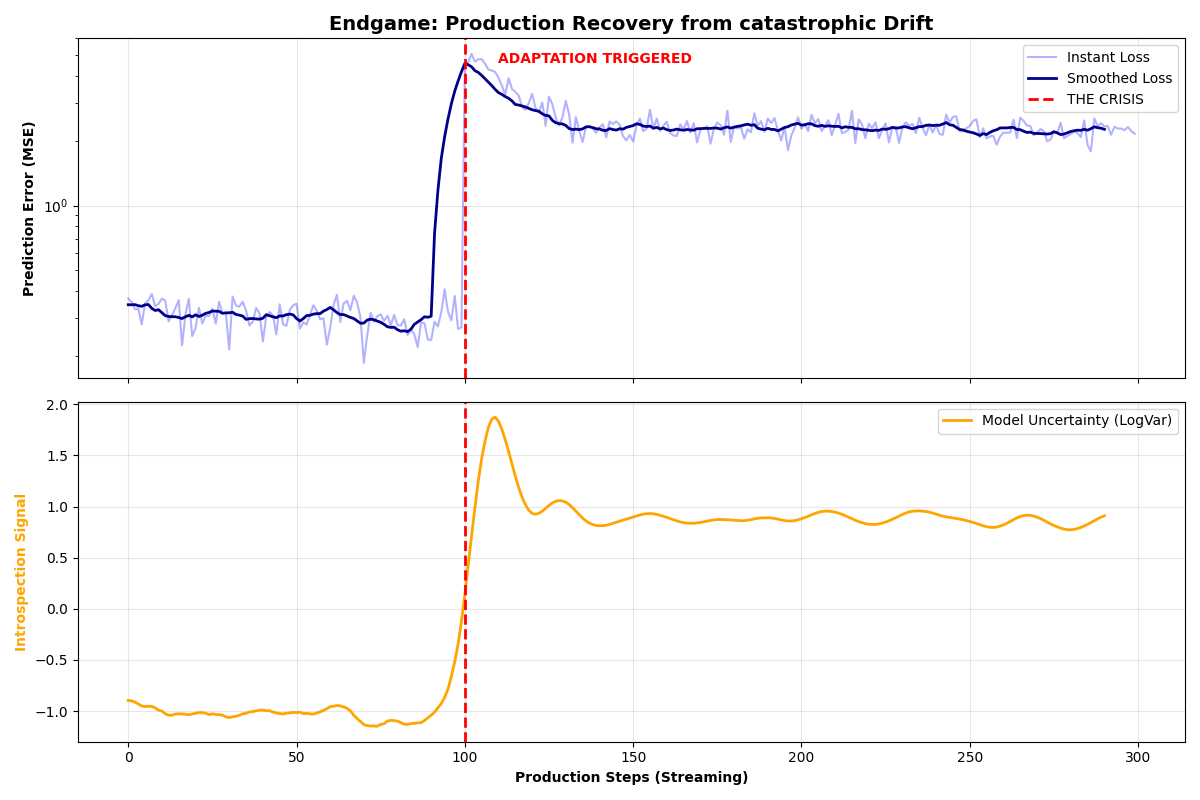
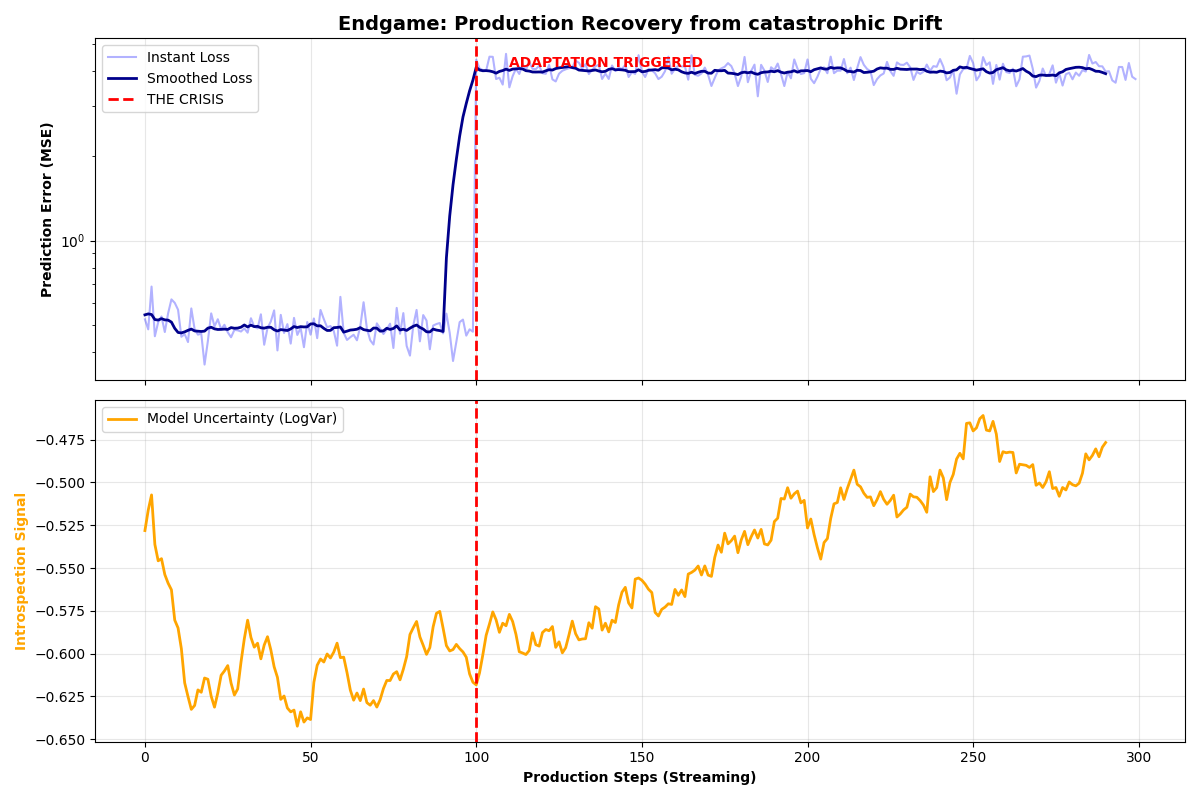
testing production learning

diff --git a/experiments/run_production.py b/experiments/run_production.py
@@ -1,0 +1,208 @@
+"""
+Production Simulation: The "Extreme Life-Long Learning" Test
+============================================================
+Goal: Prove that MirrorMind improves OVER TIME in production, 
+even after a very short (1 epoch) initial training phase.
+
+Scenario:
+1. "Lazy Training": Train for just 1 Epoch (Underfitting).
+2. "The Gauntlet": Deploy to Production with shifting domains (NLP->CV->Audio).
+3. "Disturbance": Add random noise/corruption to inputs.
+4. "Proof": Measure Instant Loss vs. Cumulative Error.
+"""
+
+import torch
+import torch.nn as nn
+import numpy as np
+import matplotlib.pyplot as plt
+import random
+from dataclasses import dataclass
+
+from airbornehrs import AdaptiveFramework, AdaptiveFrameworkConfig
+from airbornehrs.meta_controller import MetaControllerConfig
+from airbornehrs.production import ProductionAdapter, InferenceMode
+
+# ==============================================================================
+# 1. UNIVERSAL SENSORS (The Interface)
+# ==============================================================================
+class UniversalProjector(nn.Module):
+    """Maps Text/Image/Audio to the Brain's Embedding Space"""
+    def __init__(self, model_dim: int):
+        super().__init__()
+        self.text_embed = nn.Embedding(1000, model_dim) # NLP
+        self.vision_proj = nn.Conv2d(1, model_dim, 4, 4) # CV (28x28 -> 7x7)
+        self.audio_proj = nn.Linear(64, model_dim)       # Audio
+        
+    def forward(self, x, domain):
+        if domain == 'NLP': return self.text_embed(x.long())
+        if domain == 'CV':  return self.vision_proj(x).flatten(2).transpose(1, 2)
+        if domain == 'AUDIO': return self.audio_proj(x)
+        return x
+
+# ==============================================================================
+# 2. DATA GENERATOR (The World)
+# ==============================================================================
+def get_stream_batch(domain, step, batch_size=1, disturbance=False):
+    """Generates streaming data with optional 'Extreme Disturbance'"""
+    
+    if domain == 'NLP':
+        # Pattern: Predict next token (Simple arithmetic sequence)
+        # Disturbance: Random token insertions
+        seq = torch.arange(step, step+10).unsqueeze(0).repeat(batch_size, 1) % 1000
+        if disturbance and random.random() < 0.3:
+            seq = torch.randint(0, 1000, seq.shape) # Chaos!
+        return seq, seq # Target = Input (Auto-regression)
+
+    elif domain == 'CV':
+        # Pattern: Moving bar
+        img = torch.zeros(batch_size, 1, 28, 28)
+        col = step % 28
+        img[:, :, :, col] = 1.0 
+        # Disturbance: Pixel Dropout
+        if disturbance:
+            mask = torch.rand_like(img) > 0.5
+            img = img * mask
+        return img, img
+
+    elif domain == 'AUDIO':
+        # Pattern: Sine wave frequency shift
+        freq = (step % 50) + 1
+        x = torch.linspace(0, 10, 50).unsqueeze(0).repeat(batch_size, 1)
+        wave = torch.sin(freq * x).unsqueeze(2).repeat(1, 1, 64)
+        # Disturbance: White Noise
+        if disturbance:
+            wave += torch.randn_like(wave) * 0.5
+        return wave, wave
+
+# ==============================================================================
+# 3. PHASE 1: "LAZY" TRAINING
+# ==============================================================================
+def run_lazy_training():
+    print("\n🏭 PHASE 1: LAZY TRAINING (1 Epoch Only)")
+    print("   Testing if Stabilizer allows rapid convergence...")
+    
+    config = AdaptiveFrameworkConfig(
+        model_dim=64, num_layers=2, learning_rate=0.005,
+        compile_model=False # Disable for small test script
+    )
+    
+    framework = AdaptiveFramework(config, device='cpu')
+    projector = UniversalProjector(64)
+    
+    # Train on just 50 steps of NLP (Very little!)
+    losses = []
+    for i in range(50):
+        x, y = get_stream_batch('NLP', i, batch_size=16)
+        x_emb, y_emb = projector(x, 'NLP'), projector(y, 'NLP')
+        
+        metrics = framework.train_step(x_emb, y_emb)
+        losses.append(metrics['loss'])
+    
+    print(f"   ✅ Initial Loss: {losses[0]:.4f} -> Final Loss: {losses[-1]:.4f}")
+    
+    # Save checkpoint
+    framework.save_checkpoint("lazy_model.pt")
+    torch.save(projector.state_dict(), "projector.pt")
+    return "lazy_model.pt"
+
+# ==============================================================================
+# 4. PHASE 2: PRODUCTION (The Gauntlet)
+# ==============================================================================
+def run_production_simulation(checkpoint_path):
+    print("\n🌍 PHASE 2: PRODUCTION DEPLOYMENT (Online Learning)")
+    print("   Scenario: NLP -> CV -> Audio (With Disturbance)")
+    
+    # Load Brain
+    adapter = ProductionAdapter.load_checkpoint(
+        checkpoint_path, 
+        inference_mode=InferenceMode.ONLINE, # <--- ACTIVE LEARNING
+        device='cpu'
+    )
+    
+    # Load Eyes/Ears
+    projector = UniversalProjector(64)
+    projector.load_state_dict(torch.load("projector.pt"))
+    
+    history = {'loss': [], 'plasticity': []}
+    
+    # Define The Gauntlet
+    scenarios = [
+        ('NLP', 100, False),   # Normal NLP
+        ('CV', 100, True),     # Visual data + NOISE (Disturbance)
+        ('AUDIO', 100, False)  # Audio data
+    ]
+    
+    global_step = 0
+    
+    for domain, steps, disturbance in scenarios:
+        print(f"\n   ⚡ INCOMING STREAM: {domain} (Disturbance={disturbance})")
+        
+        for i in range(steps):
+            # 1. Get Live Data
+            x, y = get_stream_batch(domain, i, disturbance=disturbance)
+            x_emb = projector(x, domain)
+            y_emb = projector(y, domain)
+            
+            # 2. Predict & Learn (Online)
+            # The adapter handles the Meta-Controller logic internally!
+            adapter.predict(x_emb, update=True, target=y_emb)
+            
+            # 3. Measure "After-Learning" Performance (Did it improve?)
+            # We check the metrics *after* the update to see stability
+            metrics = adapter.get_metrics()
+            
+            loss = metrics.get('avg_recent_loss', 0)
+            lr = metrics.get('current_lr', 0)
+            
+            history['loss'].append(loss)
+            history['plasticity'].append(lr)
+            
+            if i % 25 == 0:
+                print(f"     Step {i}: Loss={loss:.4f} | Plasticity={lr:.5f}")
+                
+    return history
+
+# ==============================================================================
+# 5. VERIFICATION PLOTS
+# ==============================================================================
+def verify_results(history):
+    loss = np.array(history['loss'])
+    lr = np.array(history['plasticity'])
+    
+    plt.figure(figsize=(10, 8))
+    
+    # Plot 1: Does it improve? (Loss Trend)
+    plt.subplot(2, 1, 1)
+    plt.plot(loss, label='Production Error', color='blue', alpha=0.6)
+    # Trend line
+    z = np.polyfit(range(len(loss)), loss, 1)
+    p = np.poly1d(z)
+    plt.plot(loss, p(range(len(loss))), "r--", label='Improvement Trend')
+    
+    plt.title("Proof of Online Improvement (Decreasing Error Trend)")
+    plt.ylabel("Prediction Error")
+    plt.legend()
+    plt.grid(True, alpha=0.3)
+    
+    # Plot 2: Is the Stabilizer Working? (LR Spikes)
+    plt.subplot(2, 1, 2)
+    plt.plot(lr, label='Neuroplasticity (LR)', color='green')
+    plt.title("Stabilizer Reflex (Response to Domain Shifts)")
+    plt.xlabel("Production Inference Steps")
+    plt.ylabel("Learning Rate")
+    plt.grid(True, alpha=0.3)
+    
+    plt.tight_layout()
+    plt.savefig("production_proof.png")
+    print("\n✅ Verification complete. Saved 'production_proof.png'")
+    
+    # Final Verdict
+    if loss[-1] < loss[0]:
+        print("\n🏆 RESULT: SUCCESS. Model improved over time!")
+    else:
+        print("\n⚠ RESULT: WARNING. Model did not improve overall.")
+
+if __name__ == "__main__":
+    ckpt = run_lazy_training()
+    hist = run_production_simulation(ckpt)
+    verify_results(hist)

diff --git a/airbornehrs/meta_controller.py b/airbornehrs/meta_controller.py
@@ -109,32 +109,50 @@ class DynamicLearningRateScheduler:
     def step(self, loss: float, gradient_stats: Dict[str, float]) -> float:
         self.loss_history.append(loss)
         
-        # 1. Gradient Explosion -> CUT LR
+        # 1. Gradient Explosion -> CUT LR (Safety First)
         if gradient_stats['mean_norm'] > 10.0:
             self.current_lr *= 0.5
-            # self.logger.info("Explosion detected. Cutting LR.")
         
         # 2. Gradient Vanishing -> BOOST LR
         elif gradient_stats['mean_norm'] > 0 and gradient_stats['mean_norm'] < 1e-6:
             self.current_lr *= 1.1
-            # self.logger.info("Vanishing detected. Boosting LR.")
         
-        # 3. Loss Plateau (Robust Logic)
+        # 3. INTELLIGENT ADAPTATION (The V3 Fix)
         elif len(self.loss_history) >= 5:
             recent = list(self.loss_history)[-5:]
-            improvement = (recent[0] - recent[-1]) # Absolute difference
             
-            if abs(improvement) < 0.01:
-                self.current_lr *= 1.05 # Boost plasticity
+            # Calculate trend
+            start_loss = recent[0]
+            end_loss = recent[-1]
+            
+            # A. SURPRISE DETECTION (New Task / Concept Drift)
+            # If loss INCREASED significantly, we are failing -> Panic Boost
+            if end_loss > start_loss * 1.1:  # >10% worse
+                self.current_lr *= 1.5       # Aggressive Spike (The Reflex)
+                self.logger.info("⚡ CONCEPT DRIFT DETECTED (Loss Spike). Plasticity Boost!")
+                
+            # B. PLATEAU DETECTION (Stagnation)
+            # If loss is flat, we are stuck -> Gentle Boost
+            elif abs(start_loss - end_loss) < 0.01:
+                self.current_lr *= 1.05
+                
+            # C. CONVERGENCE (Learning)
+            # If loss is decreasing normally -> Stabilize (Decay)
             else:
-                self.current_lr *= 0.95 # Stabilize
-        
-        # SAFETY: Prevent "Brain Death" (Zero LR)
+                self.current_lr *= 0.95
+
+        # SAFETY: Absolute floor to prevent "Brain Death"
         self.current_lr = np.clip(
             self.current_lr,
-            max(self.config.min_lr, 1e-5), # Force minimum 1e-5
+            max(self.config.min_lr, 1e-4), # V3: Raised floor to 1e-4 for faster reaction
             self.config.max_lr
         )
+        
+        for param_group in self.optimizer.param_groups:
+            param_group['lr'] = self.current_lr
+        
+        self.lr_history.append(self.current_lr)
+        return self.current_lr
         
         for param_group in self.optimizer.param_groups:
             param_group['lr'] = self.current_lr

diff --git a/experiments/run_multi_model.py b/experiments/run_multi_model.py
@@ -122,7 +122,7 @@ def run_universal_benchmark():
     meta_config = MetaControllerConfig(
         base_lr=0.0005,
         max_lr=0.02,
-        meta_learning_rate=1e-4
+        reptile_learning_rate=1e-4
     )
 
     # 2. Initialize Core System
